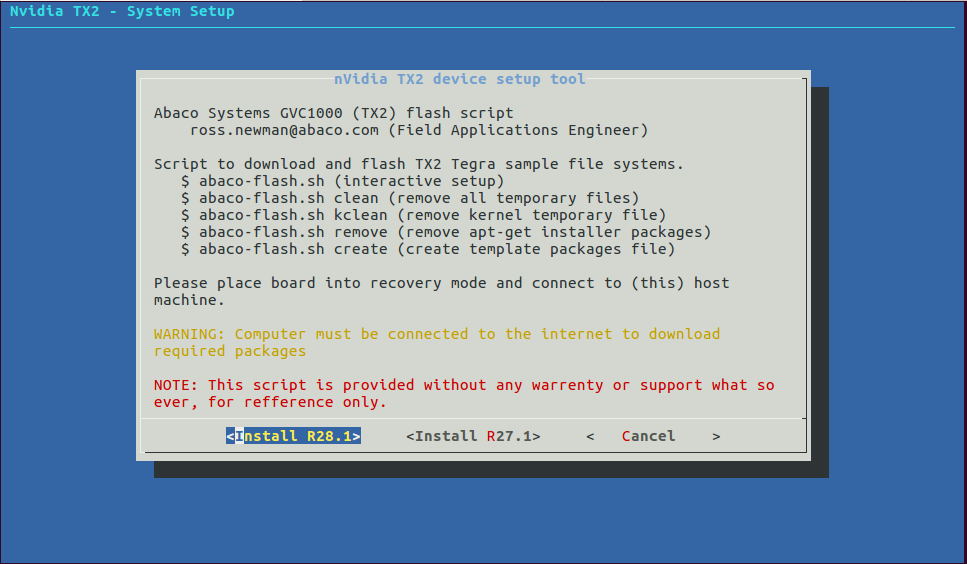
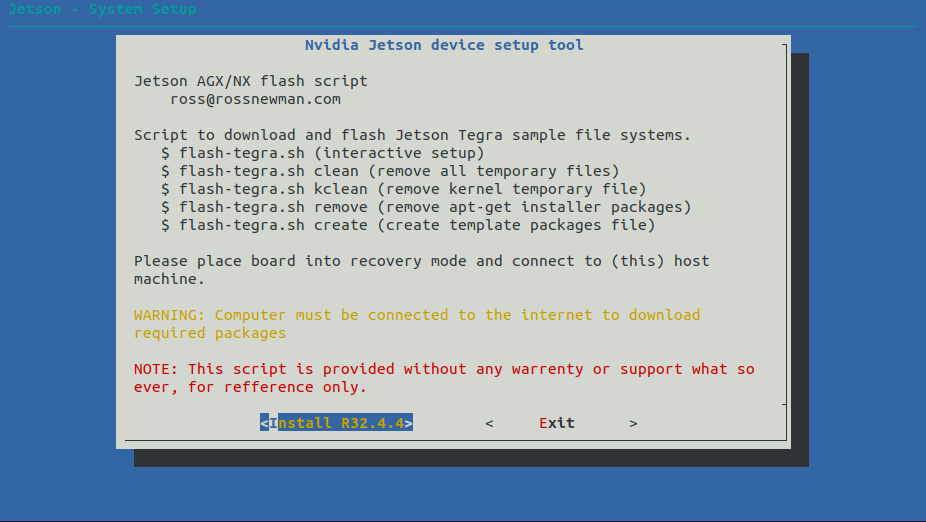
Updated screenshots and readme

Changed region(s): [[0.0, 0.0, 1.0, 1.0]]

diff --git a/README.md b/README.md
@@ -1,7 +1,7 @@
 # Packlunch the Jetpack replacement
-Nvidia TX2 replacement for Jetpack installer. Bash scritp for remote install and setup of Nvidia Jetson TX2 cards with additional kernel build and debootstrap options for minimal install.
+Nvidia Jetson replacement for Jetpack installer. Bash script for remote install and setup of Nvidia Jetson AGX /NX cards with additional kernel build and debootstrap options for minimal install.
 
-![Jetson TX2 Module](https://developer.nvidia.com/sites/default/files/akamai/embedded/images/jetsontx2/JetsonTX2Module_300px_v3.png)
+![Jetson AGX Module](https://developer.nvidia.com/sites/default/files/akamai/embedded/images/jetsonXavier/Xavier-White_Cropped_2.jpg)
 # Setup
 There is a minimal requirement for the host system to support the bash scripting environment and have the apt-get package manager. For missing dependancies the script will attempt to install the required packages.
 
@@ -10,11 +10,6 @@ As this script will install additional depencancies superuser password is reques
 ```
 sudo flash-tegra.sh
 ```
-There is also a flashing only tool with a cutdown interface called ezflash. To run this:
-```
-sudo ezflash.sh
-```
-This uses binary file systems that have been pre-built to save time for quick tests see images [here](https://github.com/Abaco-Systems/jetson-tx2-sample-filesystems). 
 
 ## Screenshots
 ![Welcome Screen](/images/packlunch-shot01.png)
